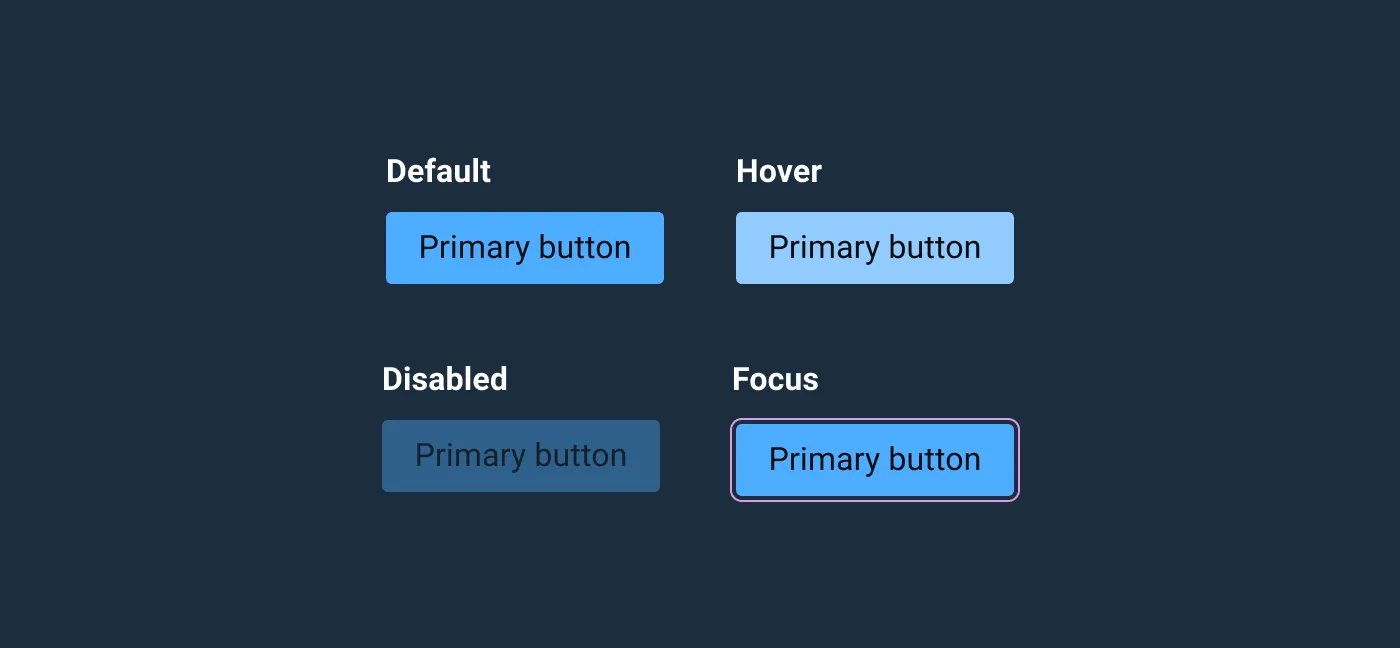
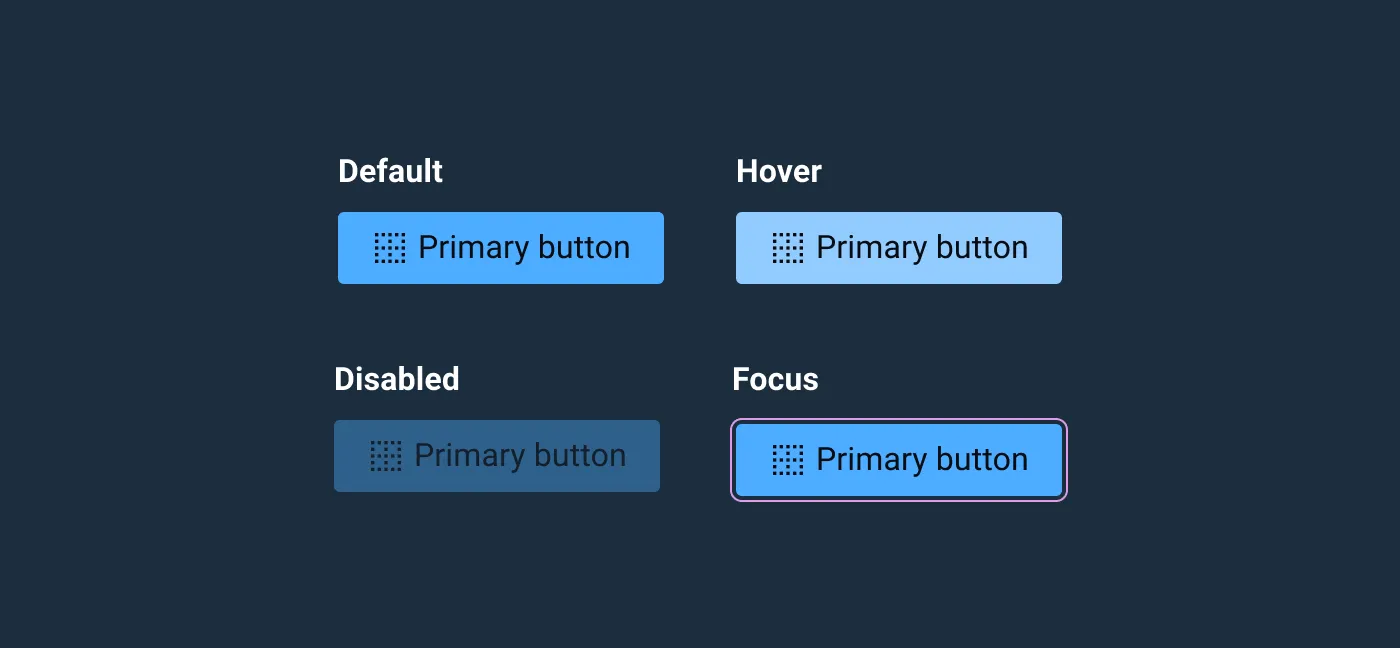
docs(astro-for-apple) update images here and on buttons spec page (#275)
update button specs and apple platform images

diff --git a/src/pages/components/button/specs.md b/src/pages/components/button/specs.md
@@ -44,9 +44,9 @@ layout: project:layouts/component-docs/component-docs-layout.astro
 ### Primary
 
 <div class="spec-container -examples">
-    <figure><img loading="lazy" width="139" src="/img/components/button/button-primary-medium-default.png" alt="Default Primary Button"/></figure>
-    <figure><img loading="lazy" width="139" src="/img/components/button/button-primary-medium-hover.png" alt="Primary Button with Hover State"/></figure>
-    <figure><img loading="lazy" width="139" src="/img/components/button/button-primary-medium-disabled.png" alt="Disabled Primary Button"/></figure>
+    <figure><img loading="lazy" width="139" src="/img/components/button/button-primary-medium-default.webp" alt="Default Primary Button"/></figure>
+    <figure><img loading="lazy" width="139" src="/img/components/button/button-primary-medium-hover.webp" alt="Primary Button with Hover State"/></figure>
+    <figure><img loading="lazy" width="139" src="/img/components/button/button-primary-medium-disabled.webp" alt="Disabled Primary Button"/></figure>
 </div>
 
 #### Default
@@ -87,9 +87,9 @@ layout: project:layouts/component-docs/component-docs-layout.astro
 ### Secondary
 
 <div class="spec-container -examples">
-    <figure><img loading="lazy" width="163" src="/img/components/button/button-secondary-medium-default.png" alt="Default Secondary Button"/></figure>
-    <figure><img loading="lazy" width="163" src="/img/components/button/button-secondary-medium-hover.png" alt="Secondary Button with Hover State"/></figure>
-    <figure><img loading="lazy" width="163" src="/img/components/button/button-secondary-medium-disabled.png" alt="Disabled Secondary Button"/></figure>
+    <figure><img loading="lazy" width="163" src="/img/components/button/button-secondary-medium-default.webp" alt="Default Secondary Button"/></figure>
+    <figure><img loading="lazy" width="163" src="/img/components/button/button-secondary-medium-hover.webp" alt="Secondary Button with Hover State"/></figure>
+    <figure><img loading="lazy" width="163" src="/img/components/button/button-secondary-medium-disabled.webp" alt="Disabled Secondary Button"/></figure>
 </div>
 
 #### Default
@@ -134,9 +134,9 @@ layout: project:layouts/component-docs/component-docs-layout.astro
 ### Borderless
 
 <div class="spec-container -examples">
-    <figure><img loading="lazy" width="161" src="/img/components/button/button-borderless-default.png" alt="Default Borderless Button"/></figure>
-    <figure><img loading="lazy" width="161" src="/img/components/button/button-borderless-hover.png" alt="Borderless Button with Hover State"/></figure>
-    <figure><img loading="lazy" width="161" src="/img/components/button/button-borderless-disabled.png" alt="Disabled Borderless Button"/></figure>
+    <figure><img loading="lazy" width="161" src="/img/components/button/button-borderless-default.webp" alt="Default Borderless Button"/></figure>
+    <figure><img loading="lazy" width="161" src="/img/components/button/button-borderless-hover.webp" alt="Borderless Button with Hover State"/></figure>
+    <figure><img loading="lazy" width="161" src="/img/components/button/button-borderless-disabled.webp" alt="Disabled Borderless Button"/></figure>
 </div>
 
 #### Default
@@ -176,9 +176,9 @@ layout: project:layouts/component-docs/component-docs-layout.astro
 ## Sizes
 
 <div class="spec-container -examples">
-    <figure><img loading="lazy" width="140" src="/img/components/button/button-primary-small-default.png" alt="Small Primary Button"/></figure>
-    <figure><img loading="lazy" width="140" src="/img/components/button/button-primary-medium-default.png" alt="Medium Primary Button"/></figure>
-    <figure><img loading="lazy" width="140" src="/img/components/button/button-primary-large-default.png" alt="Large Primary Button"/></figure>
+    <figure><img loading="lazy" width="140" src="/img/components/button/button-primary-small-default.webp" alt="Small Primary Button"/></figure>
+    <figure><img loading="lazy" width="140" src="/img/components/button/button-primary-medium-default.webp" alt="Medium Primary Button"/></figure>
+    <figure><img loading="lazy" width="140" src="/img/components/button/button-primary-large-default.webp" alt="Large Primary Button"/></figure>
 </div>
 
 ### Small
@@ -214,9 +214,9 @@ layout: project:layouts/component-docs/component-docs-layout.astro
 ## Icon Only
 
 <div class="spec-container -examples">
-    <figure><img loading="lazy" width="42" src="/img/components/button/button-primary-small-default-icon-only.png" alt="Small Icon Only Primary Button"/></figure>
-    <figure><img loading="lazy" width="60" src="/img/components/button/button-primary-medium-default-icon-only.png" alt="Medium Icon Only Primary Button"/></figure>
-    <figure><img loading="lazy" width="44" src="/img/components/button/button-primary-large-default-icon-only.png" alt="Large Icon Only Primary Button"/></figure>
+    <figure><img loading="lazy" width="42" src="/img/components/button/button-primary-small-default-icon-only.webp" alt="Small Icon Only Primary Button"/></figure>
+    <figure><img loading="lazy" width="60" src="/img/components/button/button-primary-medium-default-icon-only.webp" alt="Medium Icon Only Primary Button"/></figure>
+    <figure><img loading="lazy" width="44" src="/img/components/button/button-primary-large-default-icon-only.webp" alt="Large Icon Only Primary Button"/></figure>
 </div>
 
 ### Small
@@ -252,7 +252,7 @@ layout: project:layouts/component-docs/component-docs-layout.astro
 ## Focus
 
 <div class="spec-container -examples">
-    <figure><img loading="lazy" width="139" src="/img/components/button/button-primary-medium-focus.png" alt="Primary Button with Focus State"/></figure>
+    <figure><img loading="lazy" width="139" src="/img/components/button/button-primary-medium-focus.webp" alt="Primary Button with Focus State"/></figure>
 </div>
 
 :::specs-table-container
